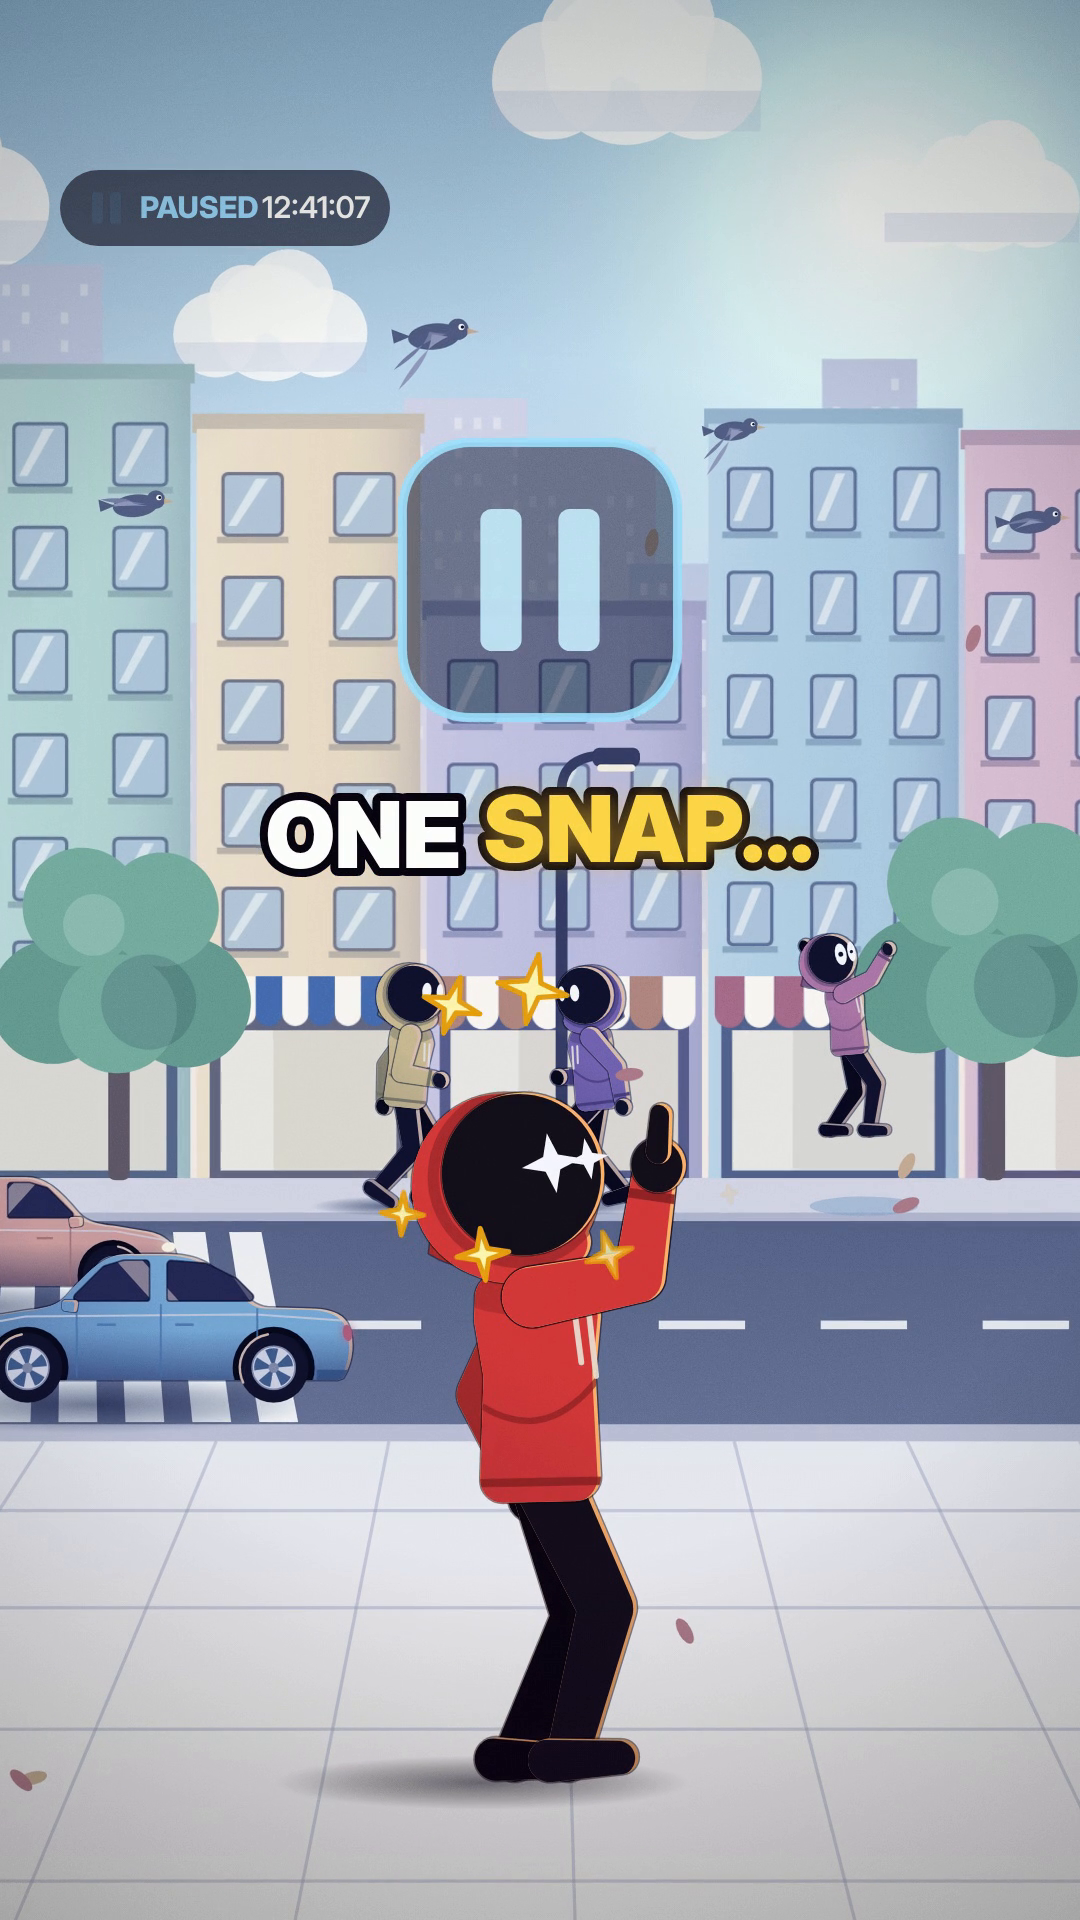
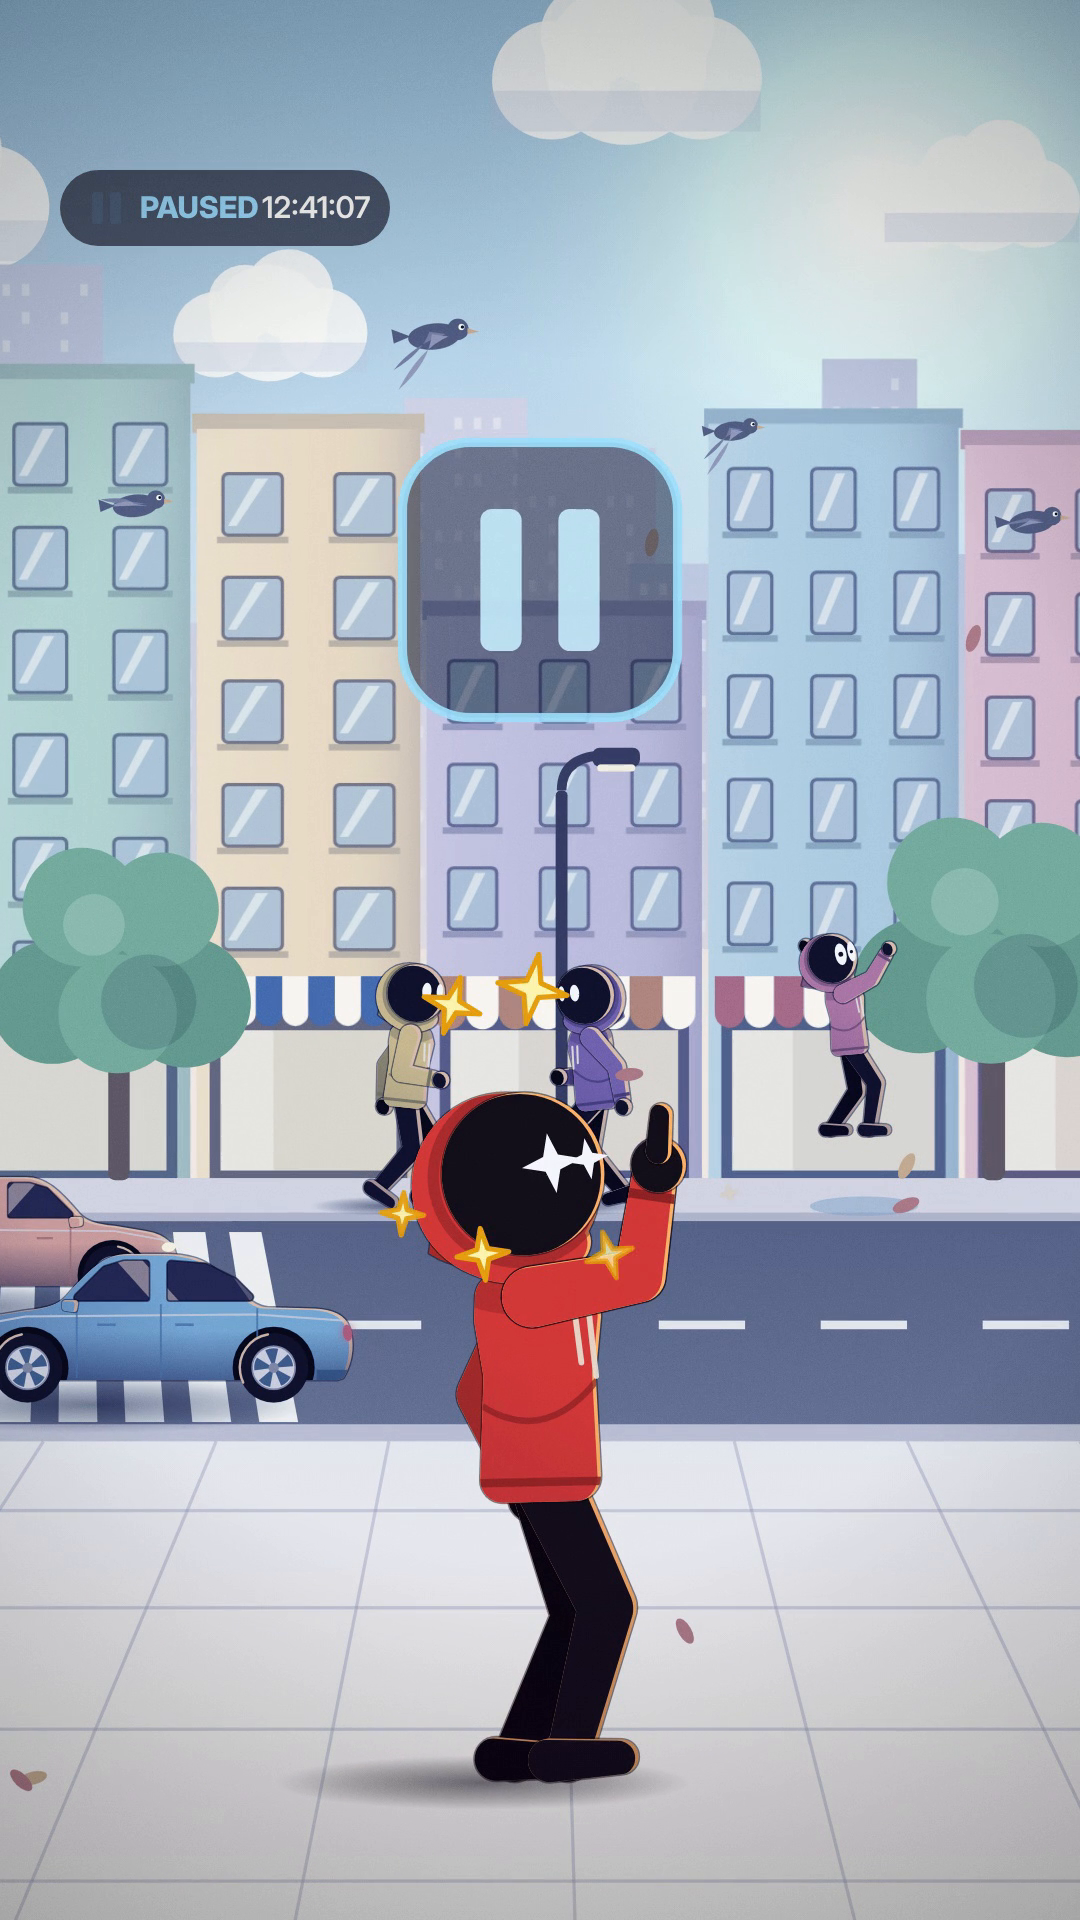
PauseTime Short: drop burned-in captions; add optional captions.srt
Claude-Session: https://claude.ai/code/session_01FMTj2kVxFJMLn8JW28PnSx

Changed region(s): [[0.2444, 0.4062, 0.7639, 0.4688]]

diff --git a/PauseTime/shots.js b/PauseTime/shots.js
@@ -425,6 +425,7 @@ const CH = (() => {                                   // group words into short 
   out.forEach((c, i) => { c.s = c.words[0].s; const nx = out[i + 1]; c.e = nx && nx.s - c.words[c.words.length - 1].e < 0.45 ? nx.s : c.words[c.words.length - 1].e + 0.25; });
   return out;
 })();
+const CAPS = new URLSearchParams(location.search).get('caps') === '1';
 const EMPH = /^(pause|stops|freeze|frozen|black|concrete|light|snap|nobody|problem|air|halfway|eyes|still)/i;
 function captions(g, t, y) {
   const c = CH.find(c => t >= c.s && t < c.e); if (!c) return;
@@ -462,7 +463,7 @@ G.drawFrame = function (g, t) {
   const s = SH.find(s => t >= s.t0 && t < s.t1) || SH[SH.length - 1];
   g.save(); s.fn(g, t); g.restore();
   post(g, t);
-  captions(g, t, s.capY(t));
+  if (CAPS) captions(g, t, s.capY(t));        // burned-in captions are off by default; ?caps=1 turns them on
 };
 G.PT_SHOTS = SH;
 })(window);

diff --git a/PauseTime/METADATA.md b/PauseTime/METADATA.md
@@ -1,6 +1,6 @@
 # What If You Could Pause Time? — What If Labs Short
 
-File: `PauseTime/out/PauseTime_Short.mp4` (1080 × 1920, 30 fps, ~46 s, narration + music + SFX, word-by-word captions burned in).
+File: `PauseTime/out/PauseTime_Short.mp4` (1080 × 1920, 30 fps, ~46 s, narration + music + SFX, no burned-in captions; optional closed captions in `captions.srt`).
 Nothing has been uploaded; you upload it yourself.
 
 ## Title
@@ -45,6 +45,7 @@ what if, what if you could pause time, pause time, stop time, freeze time, what 
 | Audience | Not made for kids |
 | Altered or synthetic content | **Yes**: the narration is a synthetic (text-to-speech) voice. Same answer as the channel's earlier videos |
 | Comments | On |
+| Subtitles | Optional: upload `captions.srt` (Subtitles → Add language → English → Upload file → With timing). Viewers can switch them on; nothing is drawn on the video |
 | Related video | Your best-performing long video on the channel |
 | Cover frame | `short_cover.png` (the snap, ~0:02.6), or the frozen raindrops (~0:07) |
 

diff --git a/PauseTime/README.md b/PauseTime/README.md
@@ -10,7 +10,7 @@ long videos (`HundredHourDay/`): `lib.js`, `rigs.js` and `mascot.js` are copies,
 | `words.py` | faster-whisper word timings → `out/words.json` (captions + event times) |
 | `gen_timing.py` | → `timing.js` (`window.VO`, `window.WORDS`) for the page |
 | `scenes.js` | helpers, the street, HUD, snap FX (`window.PT`) |
-| `shots.js` | the 10 shots, word-by-word captions, grain/vignette, `drawFrame` |
+| `shots.js` | the 10 shots, grain/vignette, `drawFrame`; word-by-word captions only with `?caps=1` (off for the release) |
 | `audio.py` | piano score (Salamander), synthesized SFX, CC0 ambiences, ducking, limiter → `out/mix.wav` (needs `PIANO_DIR`, `SFX_DIR`) |
 | `render.mjs` | frame renderer (viewport 1080×1920) |
 | `METADATA.md` | upload kit |
